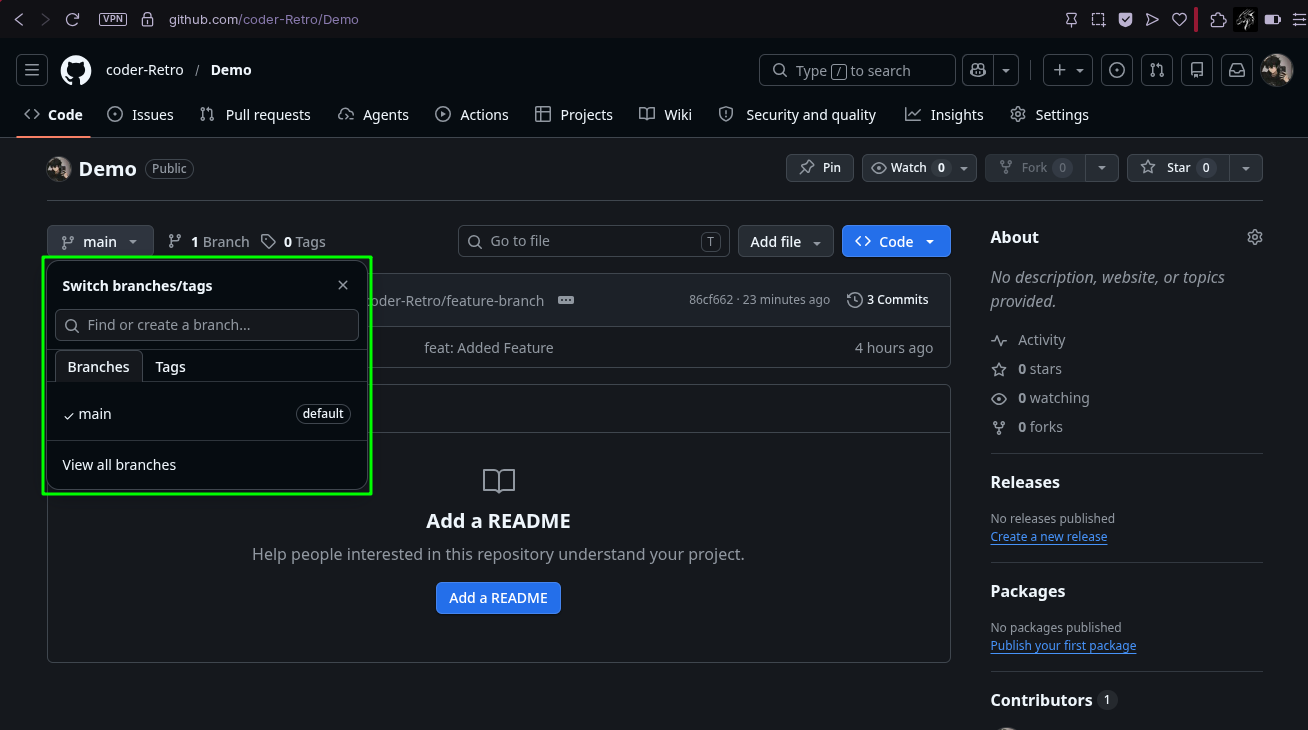
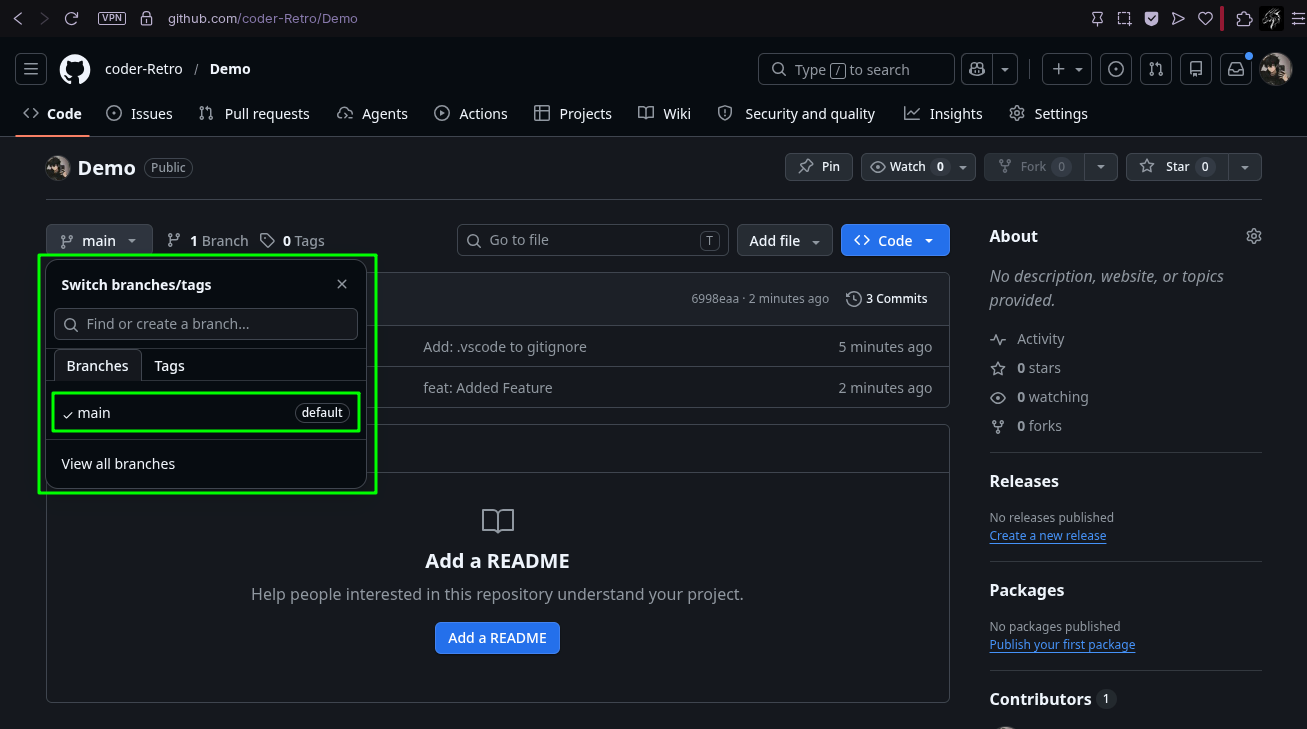
Add: Reverting and Cleanup

diff --git a/content/posts/git-and-github/index.md b/content/posts/git-and-github/index.md
@@ -237,10 +237,14 @@ Then save and close it. Now, because we ran git add . in our previous step, Git 
 ```bash
 git rm -r --cached .vscode
 git add .gitignore
-git commit -m "Add: gitignore"
+git commit -m "Add: .vscode to gitignore"
 git push origin main
 ```
-The first command tells Git to safely drop .vscode/ from its tracking registry without deleting the actual files from your hard drive. The subsequent commands log your .gitignore rules into your history and upload them. If you open your remote repo on github, you will notice that the .vscode/ folder has vanished from the cloud while remaining fully intact on your machine. From this point forward, Git will silently ignore it on every single push. Just now, we pushed our code directly to main branch in the repo, for now it's ok since we are learning git and gitgub as beginners but later on we will learn how it is not recommended to push directly to main branch. In order to understand this, we need to learn what branches are and how to use them. But before moving on to that, I recommend taking a break and practice all that you have learnt up until now to let it sink in. When you have developed a good grasp on it, contiue to branches.
+The first command tells Git to safely drop .vscode/ from its tracking registry without deleting the actual files from your hard drive. The subsequent commands log your .gitignore rules into your history and upload them. If you open your remote repo on github, you will notice that the .vscode/ folder has vanished from the cloud while remaining fully intact on your machine. From this point forward, Git will silently ignore it on every single push. 
+</div>
+<img src="img/gitignore.png" alt="added gitignore" widht=600 style="border-radius: 10px">
+<div style="text-align: justify">
+Just now, we pushed our code directly to main branch in the repo, for now it's ok since we are learning git and gitgub as beginners but later on we will learn how it is not recommended to push directly to main branch. In order to understand this, we need to learn what branches are and how to use them. But before moving on to that, I recommend taking a break and practice all that you have learnt up until now to let it sink in. When you have developed a good grasp on it, contiue to branches.
 </div>
 
 ## Working Tree & Branches
@@ -425,39 +429,49 @@ However, do know that the repo might be owned by someone else and they might not
 
 ## Version Control
 <div style="text-align: justify">
-Version control as discussed before, allows us to go to different points in the history of our project's evolution. How to do this now. Lets say that we want to remove the feature that we added using our feature branch into test.cpp. We can use version control capability of git to load the old commit where we had not added the feature. Let's learn how to do this. For this, we will need the commit hash of that version. How to find that ? We run a simple command:
+Version control as discussed before, allows us to go to different points in the history of our project's evolution. How to do this now. Lets say that we want to remove the feature that we added using our feature branch into test.cpp. We can use version control capability of git to revert the commit in which we added the feature. Let's learn how to do this. For this, we will need the commit hash of that version. How to find that ? We run a simple command:
 
 ```bash
 git log
 ```
-You will see the history of all the commits made to the project. Demo Repo's History looks like this right now:
+You will see the history of all the commits made to the project. My Demo Repo's History looks like this right now:
 
 ```bash
-commit a912124aa9e001ead619a7dd055a2955
-557b177a (HEAD -> 
-main)
+commit: 6998eaa85661853059f2bd76249662a63df64ce8
+(HEAD -> main, origin/main, origin/HEAD)
+
 Author: coder-Retro <hasnainqadri9c@gmail.com>
-Date:   Sat Jun 13 16:13:58 2026 +0500
+Date:   Sun Jun 14 18:14:56 2026 +0500
 
     feat: Added Feature
 
-commit 9341d6413f5a0486f48c083b16381e3c
-07f8e665
+commit a502c4a53ae37f001db0555b325fd3339f5db4bf
 Author: coder-Retro <hasnainqadri9c@gmail.com>
-Date:   Sat Jun 13 01:40:37 2026 +0500
+Date:   Sun Jun 14 18:12:00 2026 +0500
+
+    Add: .vscode to gitignore
+
+commit 08964f140eee9b70a2f462094fd5947eb933d820
+Author: coder-Retro <hasnainqadri9c@gmail.com>
+Date:   Sun Jun 14 18:07:58 2026 +0500
 
     Any Message
 ```
-If you want to start reading the commit history from the beginning of the project, then read the git log's output from bottom to up. As you can see here that there are only two commits. One that we made through our main branch (Any Message) and the second that we made through our feature branch (feat: Added Feature). Git log also tells us the time those commits were made along with the attached commit message. Now back to commit hash that we needed. You see the first line of each commit that says "commit" and then a long code after it, this long code is called the "Commit Hash". In order to go to a certain commit, we need its commit hash. Now as we said before that we want to go to a part where we had not added the feature, we can look at the commit messages to know where we want to go. The last commit says "feat: Added Feature", so we dont need this one. The one before that says "Any Message", which was our first commit. Let's copy the commit hash of this commit. Now in order to remove a feature, we must make a new branch like we made one to add it. Let's revise the branch making process shall we? First sync you local main with remote main using:
+If you want to start reading the commit history from the beginning of the project, then read the git log's output from bottom to upwards. As you can see here that there are only three commits. Initial commit that we made through our main branch (Any Message), second commit where we added the gitignore and the third commit that we made through our feature branch (feat: Added Feature). Git log also tells us the time those commits were made along with the attached commit message. Now back to commit hash that we needed. You see the first line of each commit that says "commit" and then a long code after it, this long code is called the "Commit Hash".
+</div>
+
+### Revert Commit
+<div style="text-align: justify">
+In order to revert our feature commit, we need its commit hash. We can look at the commit messages to know where we want to go. The last commit says "feat: Added Feature", so that's the one we need to revert. Let's copy the commit hash of this commit. Now in order to remove a feature, we must make a new branch like we made one to add it. Let's revise the branch making process shall we? First sync you local main with remote main using:
 
 ```bash
 git switch main
 git pull origin main
 ```
-Then make a branch using the branch creation command and also switch to it. Let's call this branch feature2:
+Then make a branch using the branch creation command and also switch to it. Let's call this branch "remove-feature":
 
 ```bash
-git switch -c feature2
+git switch -c remove-feature
 ```
 Now let's run branch list command to make sure that our branch has been created and we are on the current branch:
 
@@ -467,20 +481,68 @@ git branch
 It should look something like this:
 
 ```bash
-* feature2
+* remove-feature
   main
 ```
-Not let's use our commit hash to load the old state of our code where our code did not have the added feature, for this we need to run this command using our commit hash:
+Not let's use our copied commit hash to revert the feature. For this, we need to run this command using our commit hash:
 
 ```bash
-git reset --soft 9341d6413f5a0486f48c083b16381e3c
+git revert --no-edit 6998eaa85661853059f2bd76249662a63df64ce8
+git push origin remove-feature
 ```
-You will notice that your code does not go back to its old state in your editor and feature line is still there, This is because we used "--soft" flag. This flag leaves our opened file untounched, but adds the commit hash version of the file we just tracked to added section, now if we commit and push, we will be pushing the old state file. If we want to restore the code in our editor as well and lost our current changes in the opened file, we can replace the "--soft" flag with "--hard" flag:
+Normally "git revert CommitHash" would have also worked, but sometime you will get an error regarding and editor called "vi" which might not be installed in your system, so to bypass that error we use the "--no-edit" flag. Now the test.cpp in the remove-feature branch of our repo has been restored to its original form where the feature did not exist.
+</div>
+<img src="img/featureReverted.png" alt="Feature Reverted" width=600 style="border-radius: 10px">
+<div style="text-align: justify">
+Now let's merge our remove-feature into our main to restore the original code as well:
 
 ```bash
-git reset --hard 9341d6413f5a0486f48c083b16381e3c
-
+git switch main
+git merge remove-feature
+git push origin main
 ```
-It is preferred to use the soft flag if you dont wanna lost your currently opened file, but if you dont need this file and can afford to lose the uncommited changes, then you can use the hard flag. Anyways, this is your original commited old file that you wanted to get to. Now we can just add, commit and push it to restore our old form of project. Let's do this:
+The first command will switch to main branch in local repo, the second command will merge the remove-feature of local repo into main branch of local repo and finally third command will update the code on remote repo's main branch using the local repo's main. Now let's run git log to verify if our feature has been removed, you will see this:
 
+```bash
+commit 69a0bcc56c2173ab9e01ad92fcc1fe7f872adb3d
+Author: coder-Retro <hasnainqadri9c@gmail.com>
+Date:   Sun Jun 14 21:53:54 2026 +0500
+
+    Revert "feat: Added Feature"
+    
+    This reverts commit 6998eaa85661853059f2bd76249662a63df64ce8.
+
+commit 6998eaa85661853059f2bd76249662a63df64ce8
+Author: coder-Retro <hasnainqadri9c@gmail.com>
+Date:   Sun Jun 14 18:14:56 2026 +0500
+
+    feat: Added Feature
+
+commit a502c4a53ae37f001db0555b325fd3339f5db4bf
+Author: coder-Retro <hasnainqadri9c@gmail.com>
+Date:   Sun Jun 14 18:12:00 2026 +0500
+
+    Add: .vscode to gitignore
+
+commit 08964f140eee9b70a2f462094fd5947eb933d820
+Author: coder-Retro <hasnainqadri9c@gmail.com>
+Date:   Sun Jun 14 18:07:58 2026 +0500
+
+    Any Message
+```
+You can also verify the feature removal by going to remote repo's main:
+</div>
+<img src="img/mainReverted.png" alt="Main Reverted" width=600 style="border-radius: 10px">
+
+#### Cleanup
+<div style="text-align: justify">
+As we can see that our feature has been reverted all over our project and initial form of code has been restored. Now all we have left to do is to delete our remove-feature branch to cleanup. Let's revise the branch deletion process by running the following commands:
+
+```bash
+git switch main
+git pull origin main
+git branch -d remove-feature
+git push origin -d remove-feature
+```
+We already know what each of these commands do step by step. Congratulations on reverted your feature and restoring an older version of your project. This is one of the most important and amazing powers a developer can desire to have and that is exactly what git and github deliver.
 </div>
